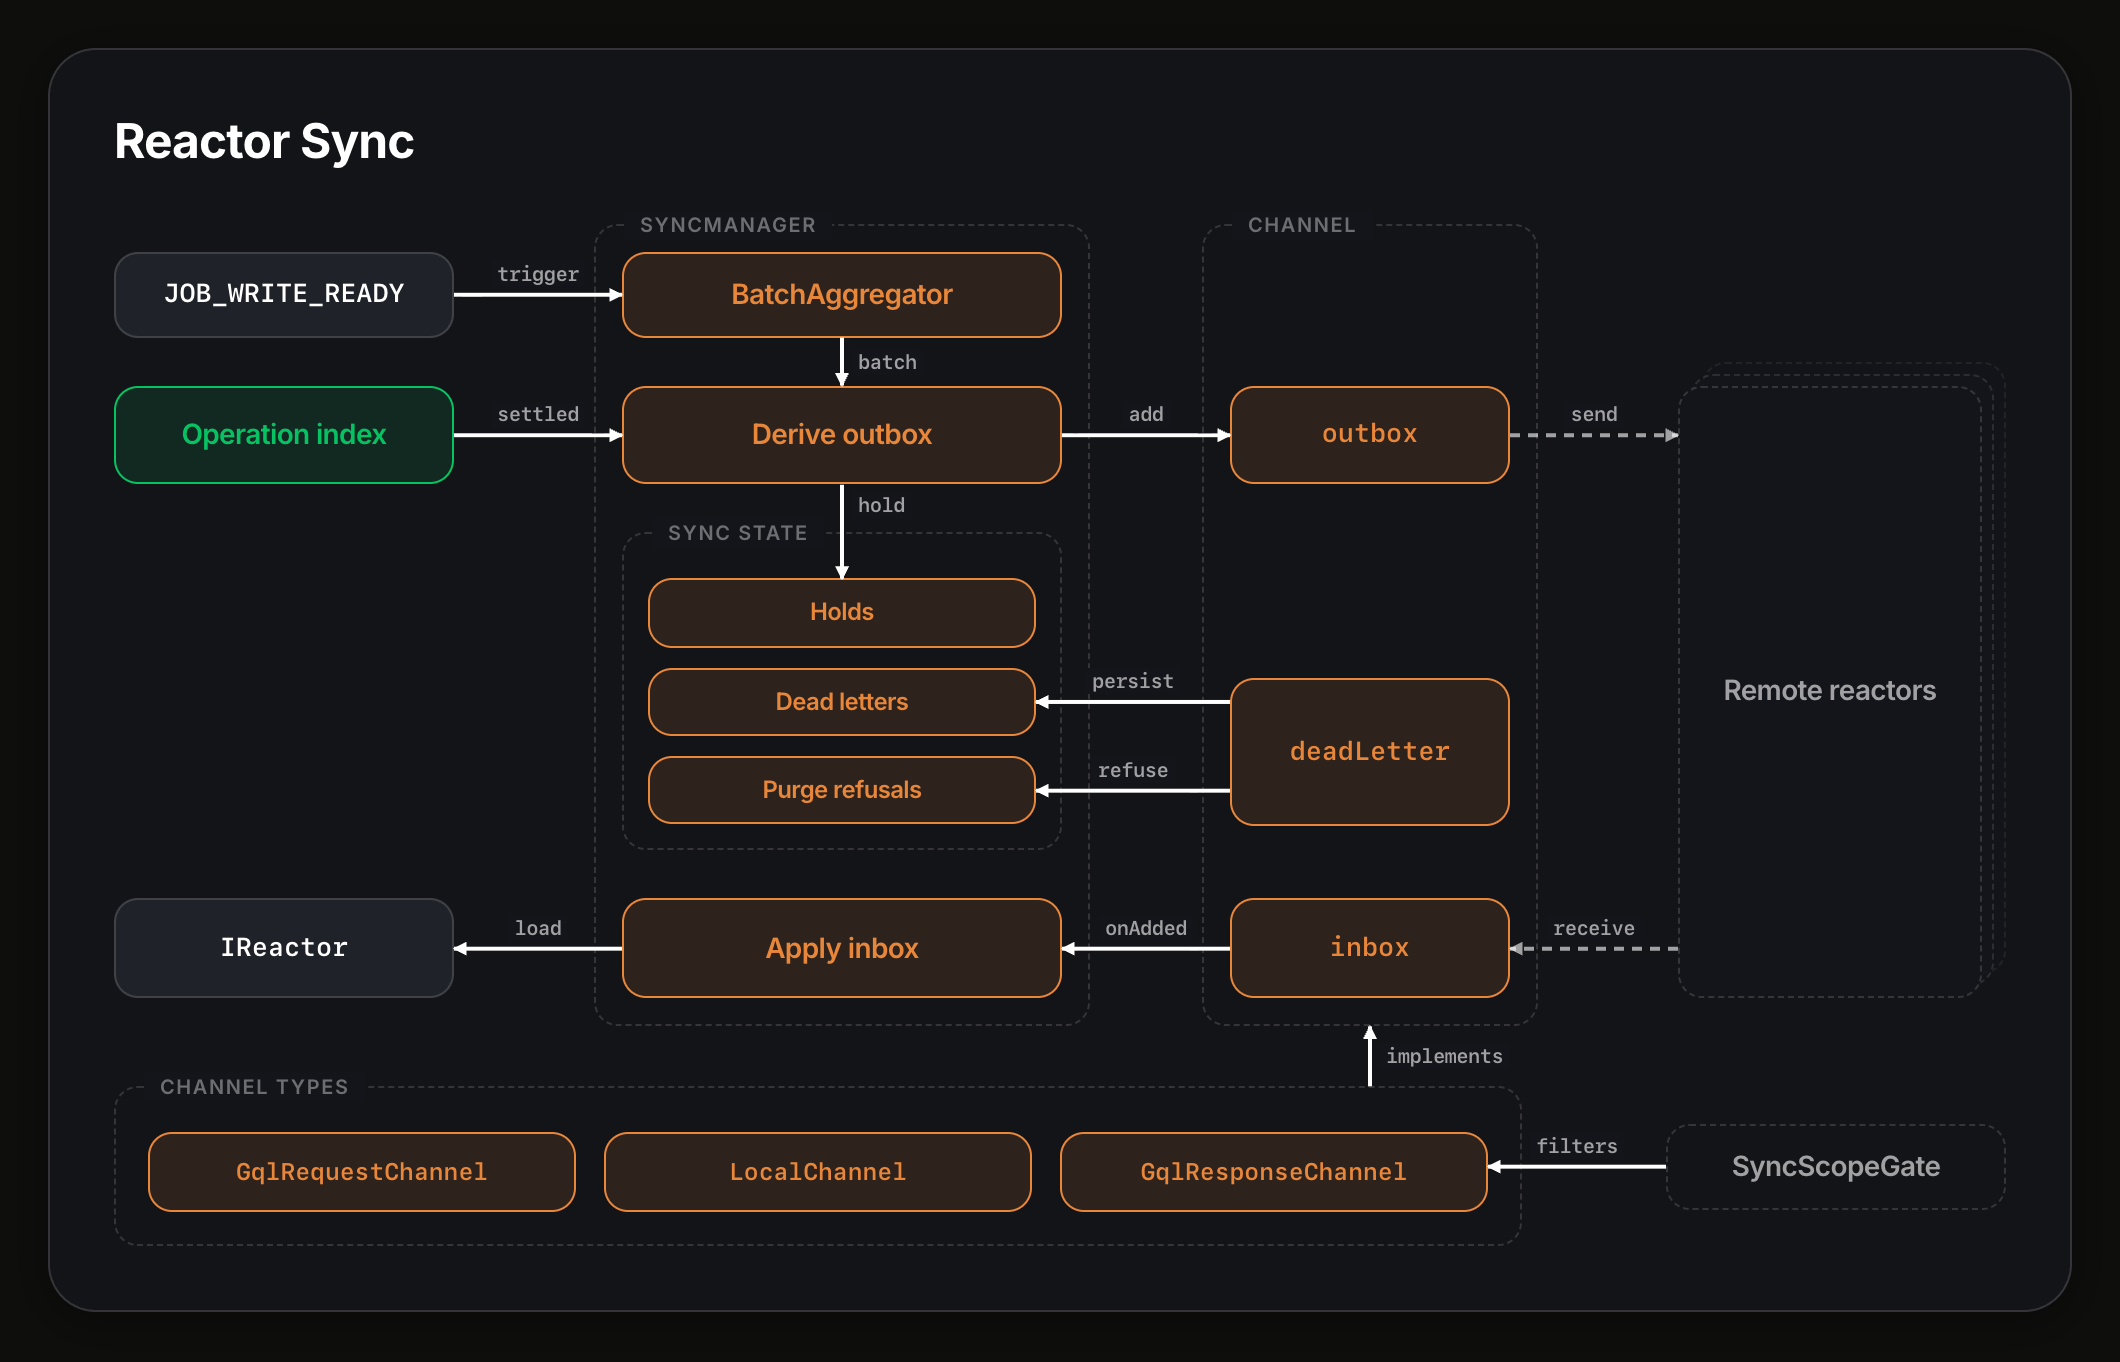
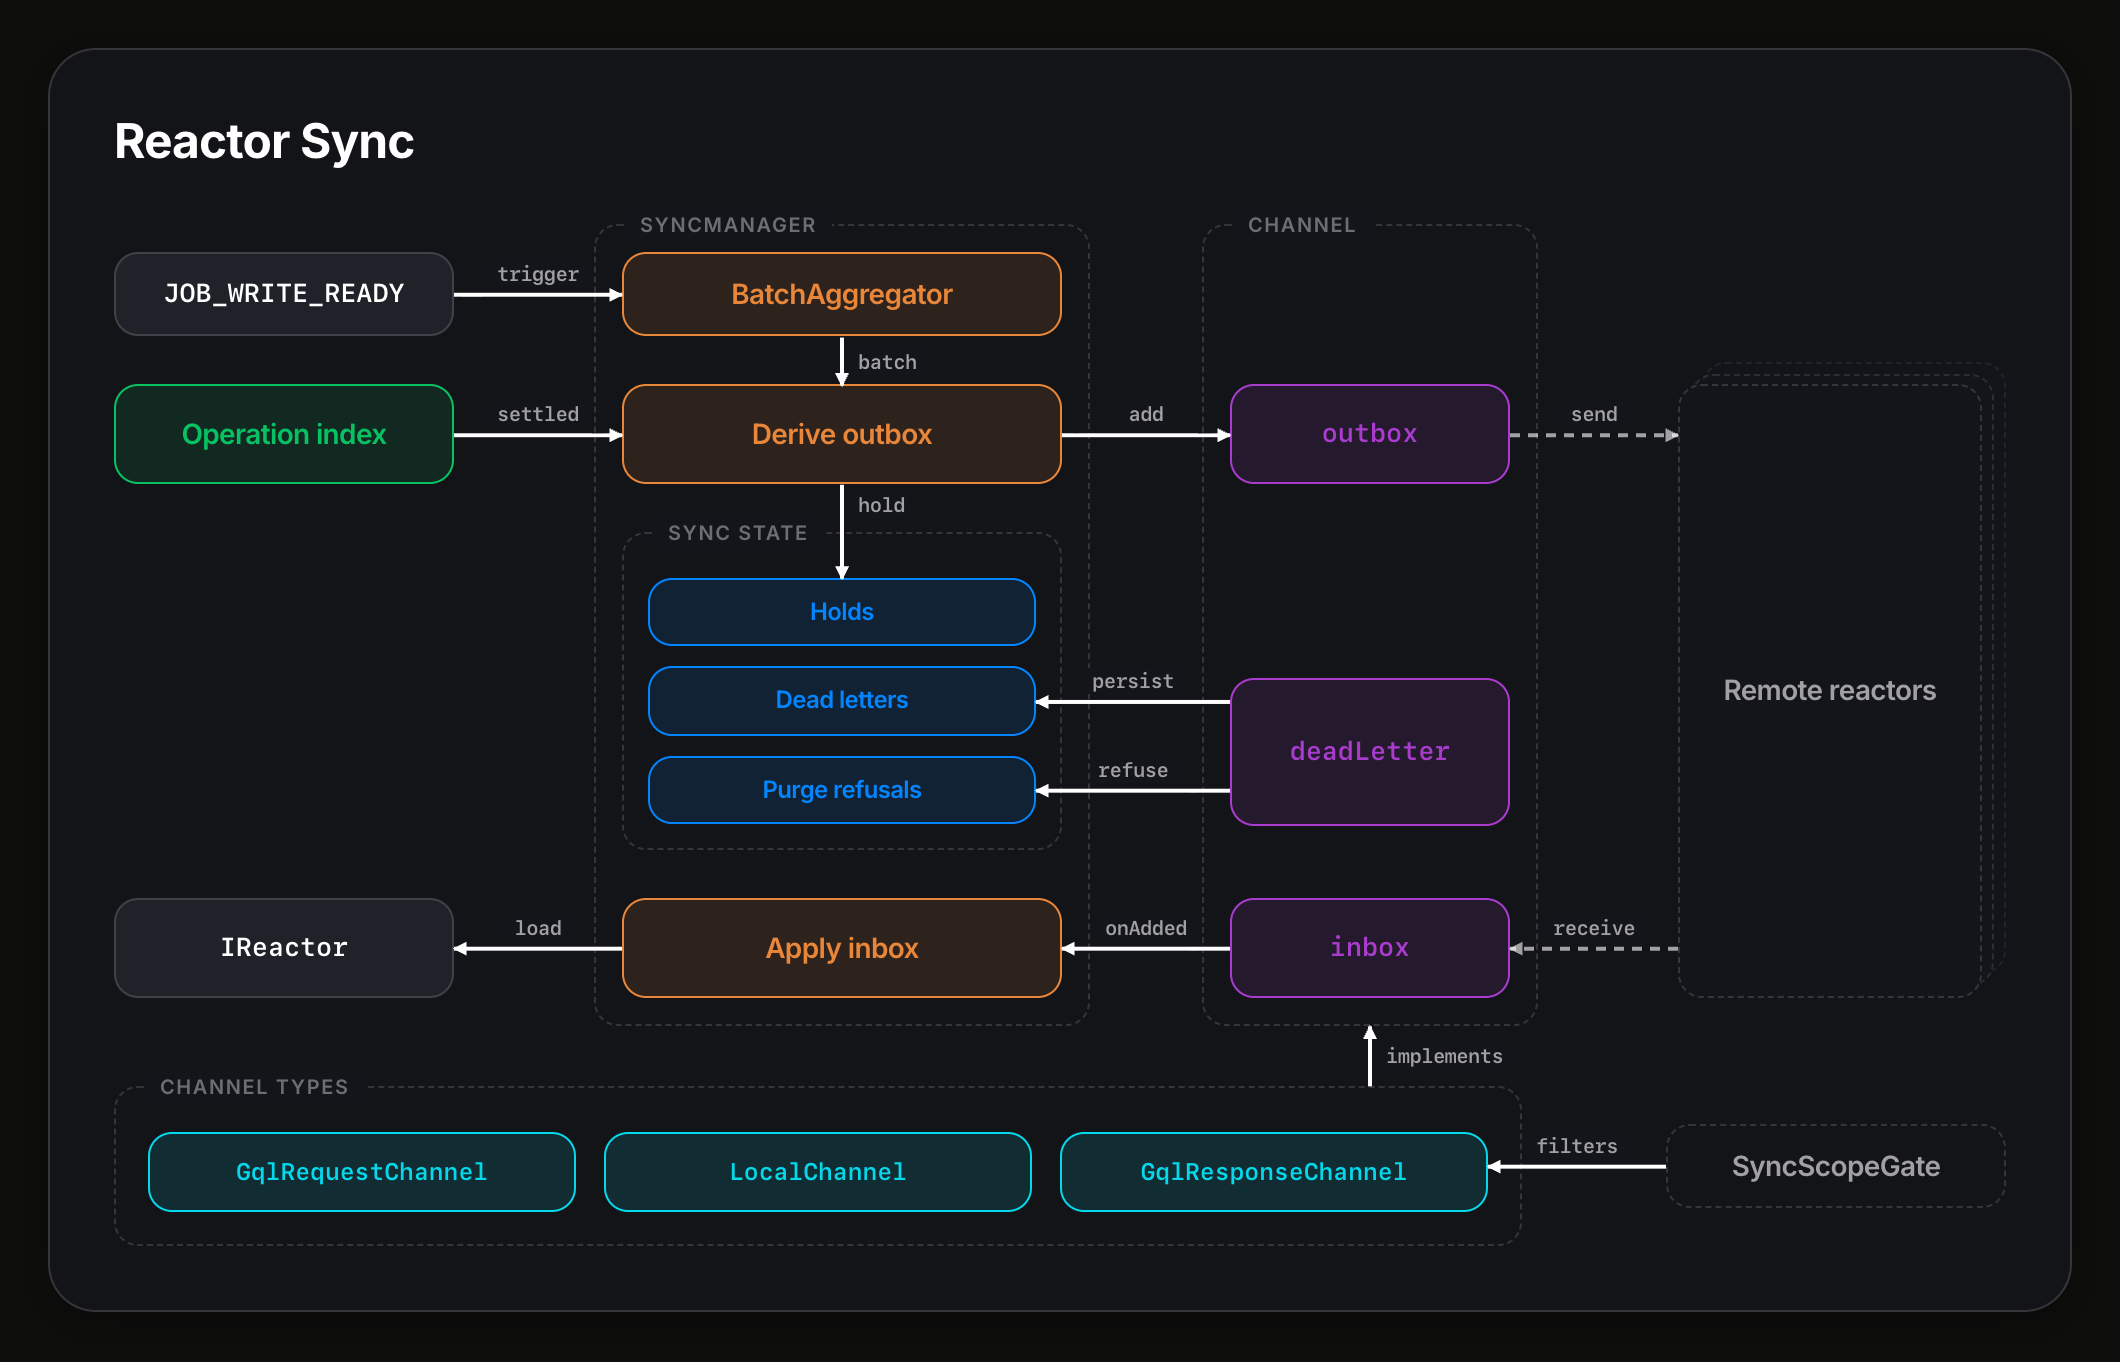
reactor sync: a distinct accent per group
SyncManager stays orange; sync state is blue, the channel's mailboxes
purple and the channel types cyan, so the four sync groups read apart.

diff --git a/pages/reactor-sync.html b/pages/reactor-sync.html
@@ -228,27 +228,27 @@
 
           <div class="box accent-green" id="oi" style="grid-column:1;grid-row:2"><div class="box-title">Operation index</div></div>
           <div class="box accent-orange" id="derive" style="grid-column:2;grid-row:2"><div class="box-title">Derive outbox</div></div>
-          <div class="box mailbox accent-orange" id="outbox" style="grid-column:3;grid-row:2"><div class="box-title mono">outbox</div></div>
+          <div class="box mailbox accent-purple" id="outbox" style="grid-column:3;grid-row:2"><div class="box-title mono">outbox</div></div>
           <div class="fanout dashed external" id="remote" style="grid-column:4;grid-row:2 / 5;margin-top:0"><div class="box external"><div class="box-title">Remote reactors</div></div></div>
 
           <div class="group state-grid" id="state" style="grid-column:2;grid-row:3">
             <span class="group-label">Sync state</span>
-            <div class="box accent-orange" id="holds"><div class="box-title">Holds</div></div>
-            <div class="box accent-orange" id="deadletters"><div class="box-title">Dead letters</div></div>
-            <div class="box accent-orange" id="refusals"><div class="box-title">Purge refusals</div></div>
+            <div class="box accent-blue" id="holds"><div class="box-title">Holds</div></div>
+            <div class="box accent-blue" id="deadletters"><div class="box-title">Dead letters</div></div>
+            <div class="box accent-blue" id="refusals"><div class="box-title">Purge refusals</div></div>
           </div>
-          <div class="box mailbox accent-orange" id="dead" style="grid-column:3;grid-row:3;align-self:end;margin-bottom:12px;height:74px"><div class="box-title mono">deadLetter</div></div>
+          <div class="box mailbox accent-purple" id="dead" style="grid-column:3;grid-row:3;align-self:end;margin-bottom:12px;height:74px"><div class="box-title mono">deadLetter</div></div>
 
           <div class="box" id="reactor" style="grid-column:1;grid-row:4"><div class="box-title mono">IReactor</div></div>
           <div class="box accent-orange" id="apply" style="grid-column:2;grid-row:4"><div class="box-title">Apply inbox</div></div>
-          <div class="box mailbox accent-orange" id="inbox" style="grid-column:3;grid-row:4"><div class="box-title mono">inbox</div></div>
+          <div class="box mailbox accent-purple" id="inbox" style="grid-column:3;grid-row:4"><div class="box-title mono">inbox</div></div>
         </div>
         <div class="types-row" id="types-row">
           <div class="group types" id="types">
             <span class="group-label">Channel types</span>
-            <div class="box accent-orange" id="gqlreq"><div class="box-title mono">GqlRequestChannel</div></div>
-            <div class="box accent-orange" id="localch"><div class="box-title mono">LocalChannel</div></div>
-            <div class="box accent-orange" id="gqlres"><div class="box-title mono">GqlResponseChannel</div></div>
+            <div class="box accent-cyan" id="gqlreq"><div class="box-title mono">GqlRequestChannel</div></div>
+            <div class="box accent-cyan" id="localch"><div class="box-title mono">LocalChannel</div></div>
+            <div class="box accent-cyan" id="gqlres"><div class="box-title mono">GqlResponseChannel</div></div>
           </div>
           <div class="box external" id="gate"><div class="box-title">SyncScopeGate</div></div>
         </div>
